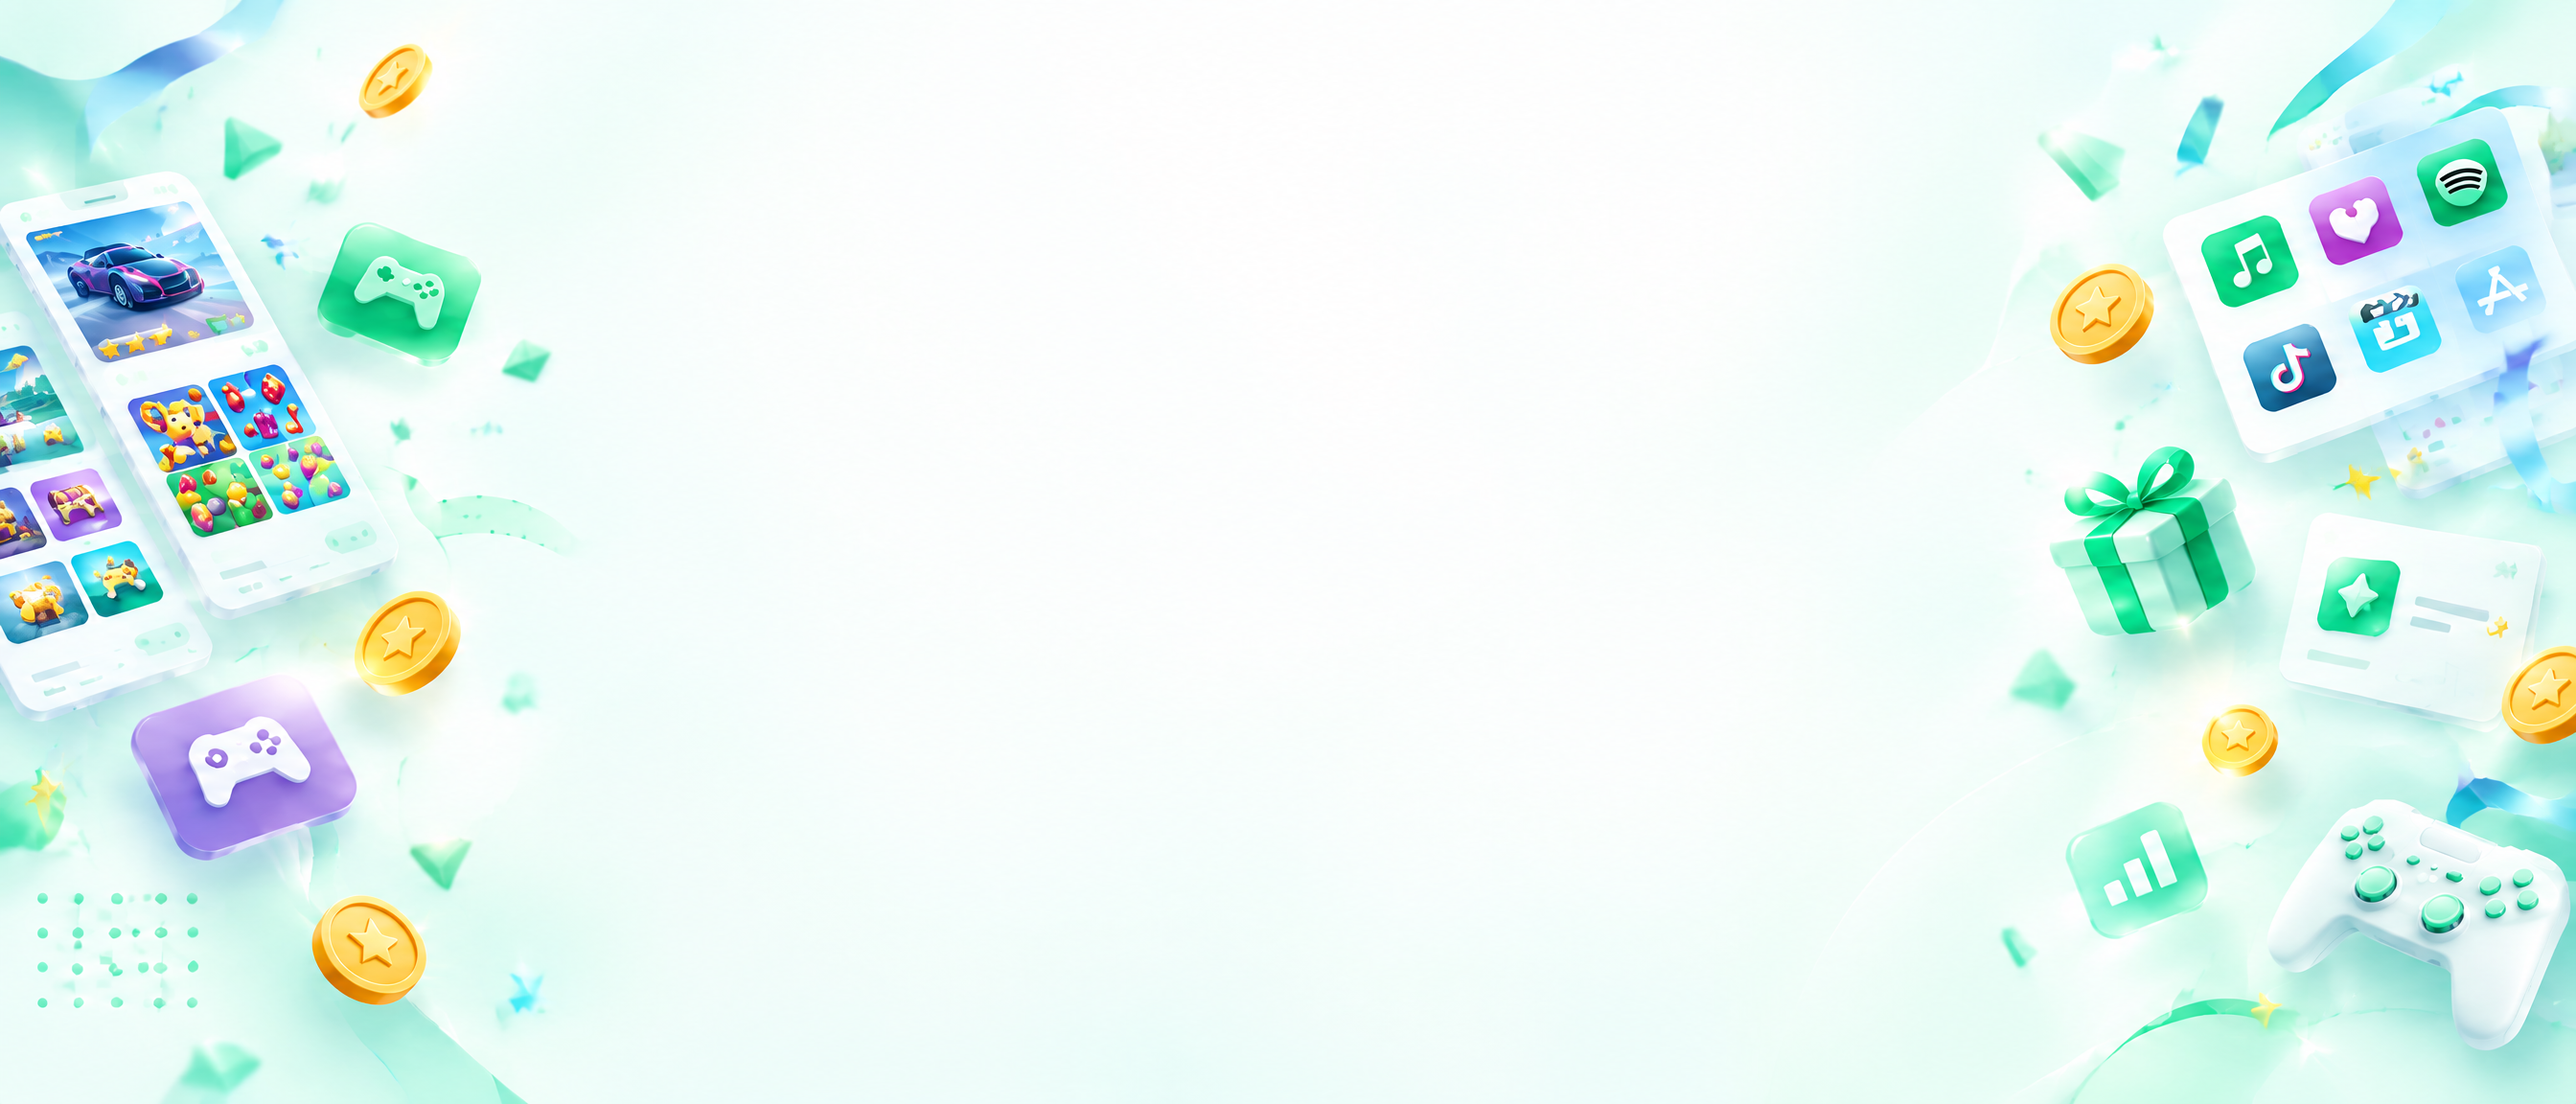
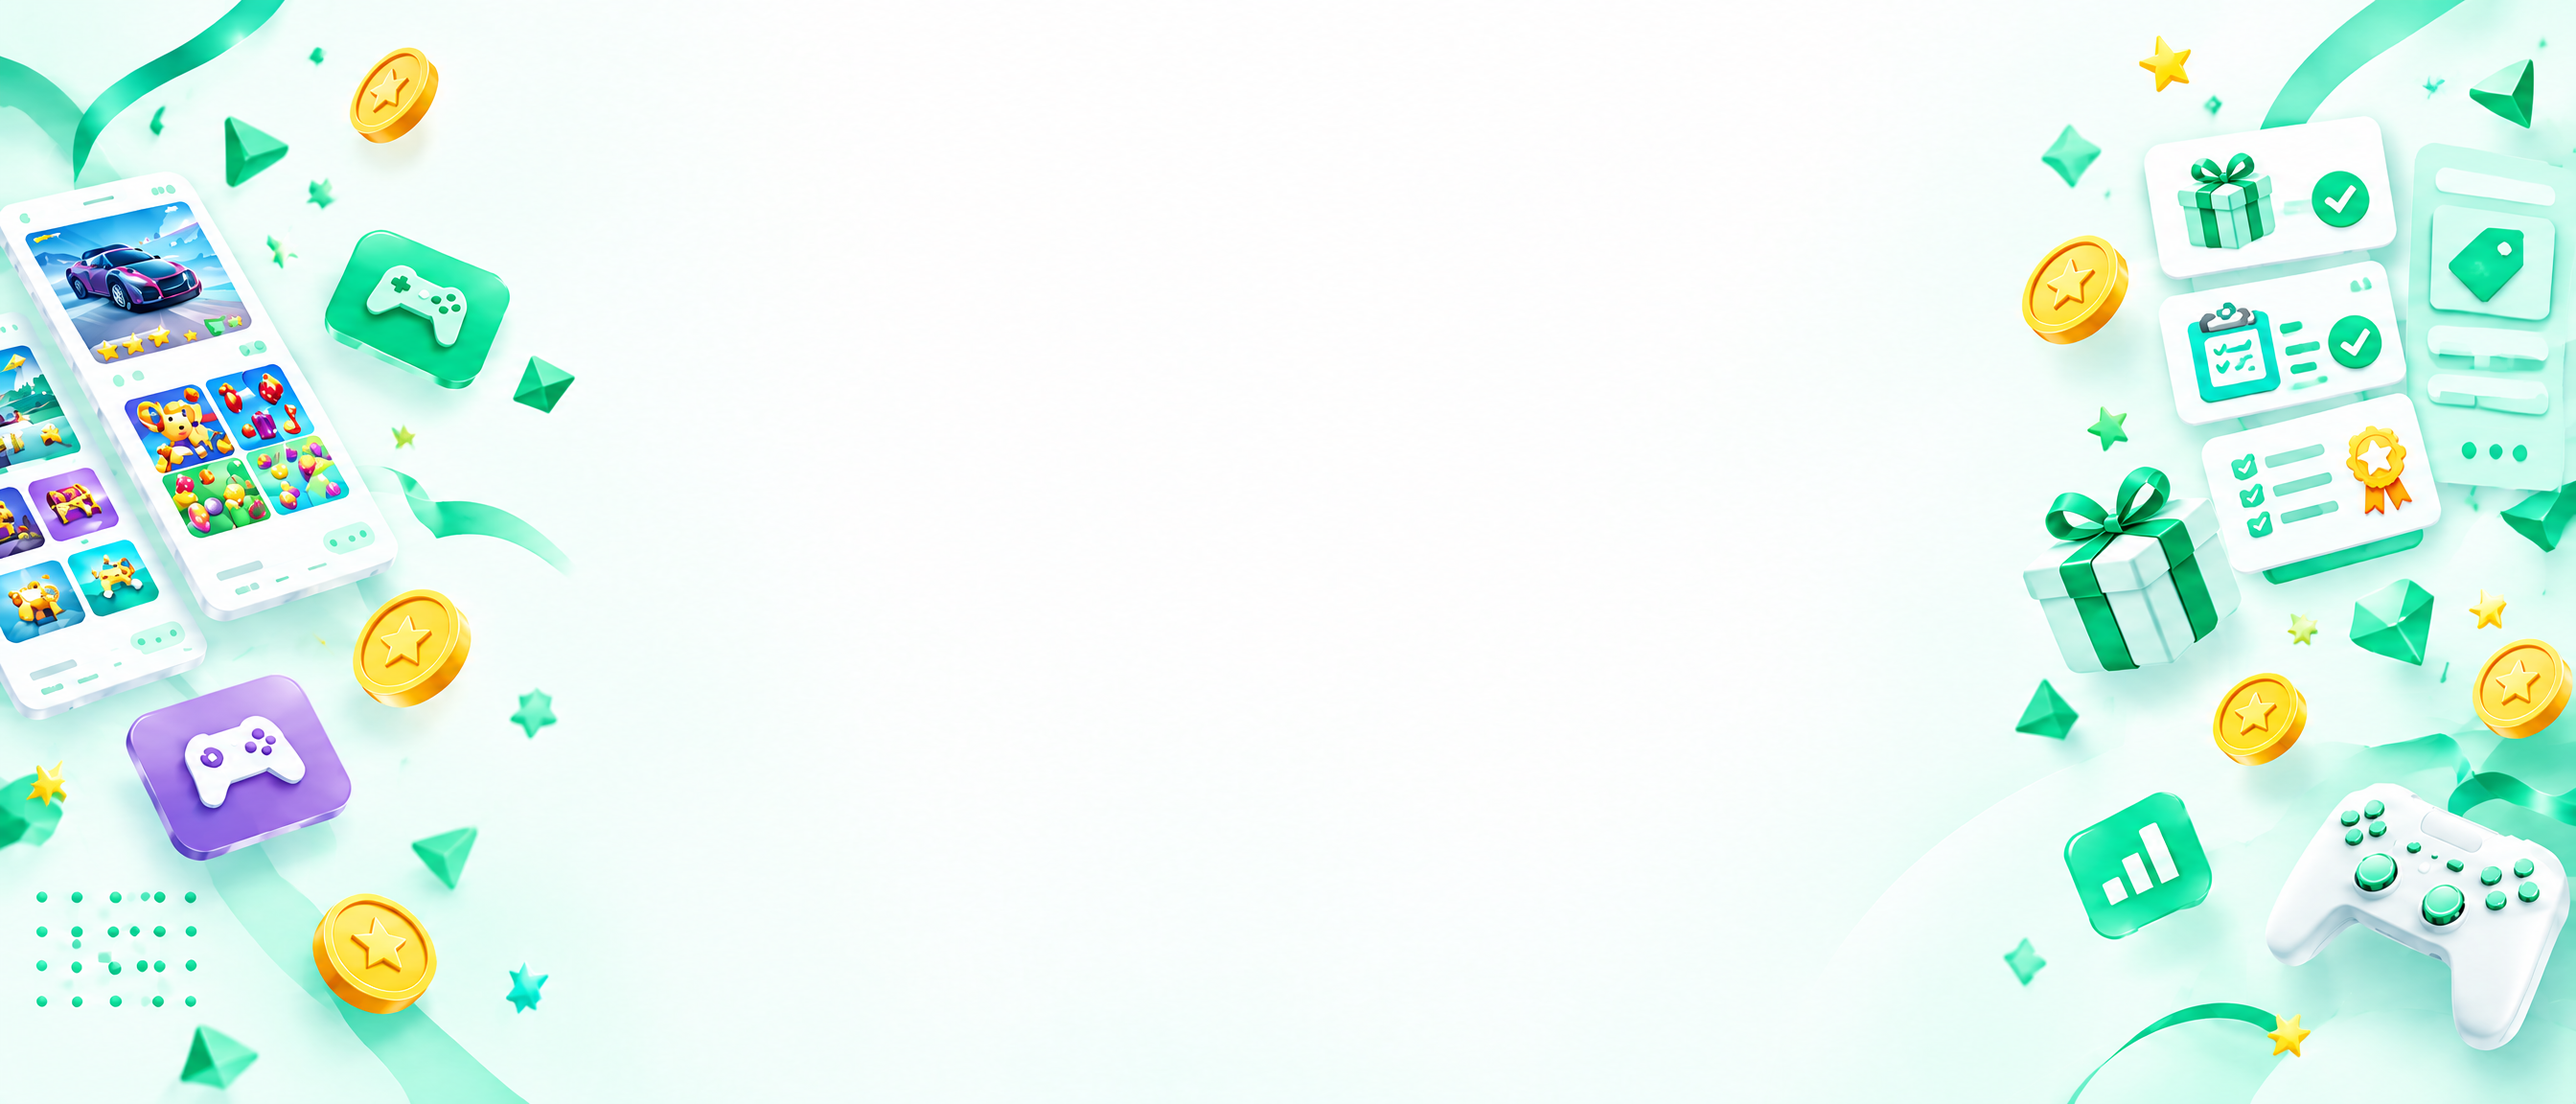
Use clearer rewards background on dashboard and auth

diff --git a/client/src/index.css b/client/src/index.css
@@ -162,9 +162,12 @@
 .dark .border-white, .dark .border-gray-200, .dark .border-slate-200 { border-color: var(--border); }
 
 .app-shell { position: relative; isolation: isolate; min-height: 100vh; background: var(--background); }
-.app-shell-background { position: fixed; inset: 0; z-index: 0; pointer-events: none; background-image: linear-gradient(rgba(255,255,255,.7), rgba(255,255,255,.7)), url('/rewardsverse-dashboard-bg-v2.png'); background-size: cover; background-position: center top; background-repeat: no-repeat; opacity: .72; }
+.app-shell-background { position: fixed; inset: 0; z-index: 0; pointer-events: none; background-image: linear-gradient(rgba(255,255,255,.28), rgba(255,255,255,.28)), url('/rewardsverse-dashboard-bg-v2.png'); background-size: cover; background-position: center top; background-repeat: no-repeat; opacity: .92; }
 .app-shell > *:not(.app-shell-background) { position: relative; z-index: 1; }
-.dark .app-shell-background { background-image: linear-gradient(rgba(7,16,20,.84), rgba(7,16,20,.84)), url('/rewardsverse-dashboard-bg-v2.png'); opacity: .52; }
+.dark .app-shell-background { background-image: linear-gradient(rgba(7,16,20,.48), rgba(7,16,20,.48)), url('/rewardsverse-dashboard-bg-v2.png'); opacity: .86; }
+.rewards-auth-page { isolation: isolate; overflow: hidden; }
+.rewards-auth-page::before { content: ''; position: absolute; inset: 0; z-index: -1; pointer-events: none; background-image: linear-gradient(rgba(255,255,255,.2), rgba(255,255,255,.2)), url('/rewardsverse-dashboard-bg-v2.png'); background-size: cover; background-position: center; background-repeat: no-repeat; }
+.dark .rewards-auth-page::before { background-image: linear-gradient(rgba(7,16,20,.56), rgba(7,16,20,.56)), url('/rewardsverse-dashboard-bg-v2.png'); }
   .hud-sidebar { background: var(--sidebar-background); border-right: 1px solid var(--sidebar-border); box-shadow: 12px 0 30px rgba(15,23,42,.05); }
 .hud-topbar { position: sticky; top: 0; z-index: 30; display: flex; height: 64px; align-items: center; justify-content: space-between; border-bottom: 1px solid var(--border); background: rgba(255,255,255,.94); padding: 0 1.5rem; backdrop-filter: blur(14px); }
 .hud-topbar::after { content: ''; position: absolute; bottom: -1px; left: 1.5rem; height: 2px; width: 56px; background: var(--primary); }

diff --git a/client/src/pages/AuthPage.tsx b/client/src/pages/AuthPage.tsx
@@ -125,7 +125,7 @@ export default function AuthPage() {
   };
 
   return (
-    <main className="relative min-h-screen bg-background text-foreground flex items-center justify-center px-4 py-10">
+    <main className="rewards-auth-page relative min-h-screen bg-background text-foreground flex items-center justify-center px-4 py-10">
       <div className="absolute right-4 top-4 sm:right-6 sm:top-6"><ThemeToggle /></div>
       <div className="w-full max-w-md">
         <div className="text-center mb-8">
